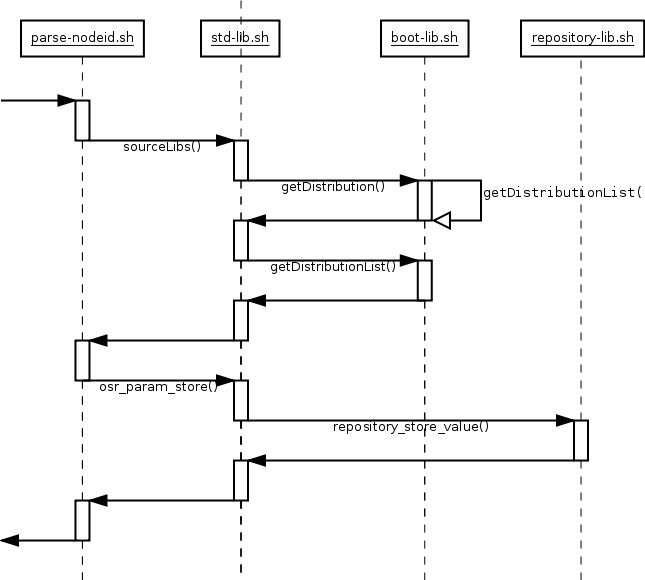
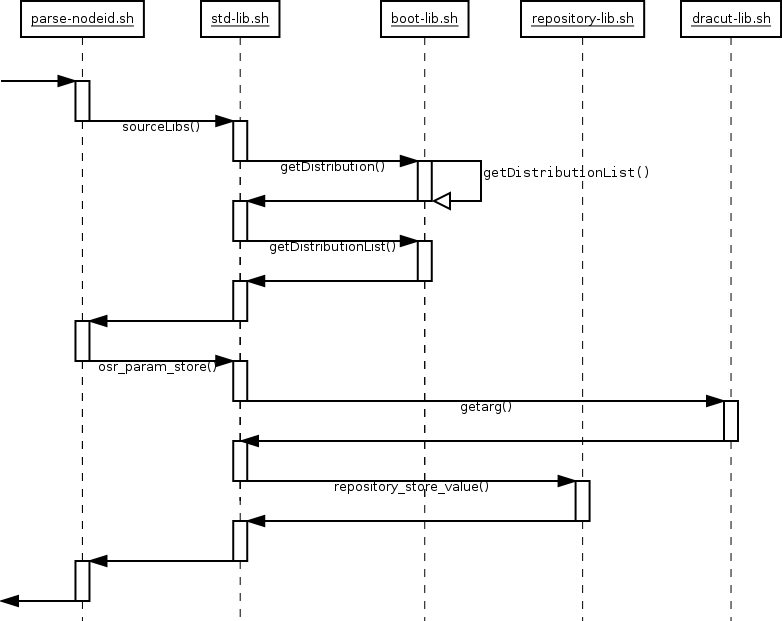
add Dia-File and png export from sequence_diagram_mount-cdsl.

Changed region(s): [[0.0, 0.0, 0.9922, 0.9931], [0.4651, 0.0, 1.0, 0.1241]]

diff --git a/doc/DE_de/develop_doc.tex b/doc/DE_de/develop_doc.tex
@@ -5,7 +5,7 @@
 \usepackage{amsfonts}
 \usepackage{amssymb}
 \usepackage{hyperref}
-
+\usepackage{graphicx}
 
 \author{Olaf Radicke}
 \title{Dokumentation der Funktionsweise der OSR-Dracut-Module}
@@ -25,6 +25,8 @@
 
 Als erstes wird vom Kernel nach dem Booten ein kleiner Binär-Code von Dracut ausgeführt, der dann seinerseits die in dash geschriebene Dracut-Module ausführt. Das erste Modul das von Darcut startet wird ist das Modul 99base. Das Erste was das Modul tut ist, dafür zu sorgen das dass initramfs geladen hat. Das Script was dafür verantwortlich ist, ist die \texttt{init}-Datei. Diese kann angepasst werden. Empfohlen wird aber stat dessen die Hooks zu verwenden. Hooks sind Scrips die vor oder nach definierten Ereignissen ausgeführt werden. Diese Hooks werden in den Modulen in den Dateien \texttt{install} definiert.
 
+\subsection{Verwendete Hooks}
+
 Die in den Modulen verwendeten Hooks sind:
 \begin{description}
  \item[cmdline] Ein sehr früher Zeitpunkt. Hier werden die Kerne-Parameter ausgewertet werden die dem Bootloader mitgegeben wurden (Sei es als GRUB-Konfiguration oder beim Booten). Hier werden z.B. die wichtigsten Environment-Variablen gesetzt. 
@@ -34,9 +36,21 @@ Die in den Modulen verwendeten Hooks sind:
 
 In einem Script \texttt{check} wird eine Funktion \texttt{check()} definiert. Das Scrip \texttt{check} sollte 0 (null) zurückgeben, wenn alle Bedingungen erfüllt sind. Wird ein anderer Wert zurückgegeben, wird das Modul nicht von Darcut geladen.
 
-Mit dem Schlüsselwort \texttt{inst\_simple} werden Dateien in das initramfs kopiert/installiert.
+\subsection{Weitere Schlüsselworte (Methoden) von Dracut}
 
-Mit dem Schlüsselwort \texttt{dracut\_install} werden Software-Pakete in die ramsf-Umgebung installiert bzw. zur Verfügung gestellt.
+\begin{description}
+ \item[inst\_simple] Mit dem Schlüsselwort \texttt{inst\_simple} werden Dateien in das initramfs kopiert/installiert.
+ \item[dracut\_install] Mit dem Schlüsselwort \texttt{dracut\_install} werden Software-Pakete in die ramsf-Umgebung installiert bzw. zur Verfügung gestellt.
+ \end{description}
+ 
+\subsection{Verwendete Darcut-Lib-Komandos}
+
+Die Dracut-lib (\texttt{/usr/share/dracut/modules.d/99base/dracut-lib.sh}) stellt verschiedene Methoden zur Verfühgung. Benutzt werden von OSR:
+
+\begin{description}
+ \item [getarg()] Gibt die benutzten Kernel-Parameter zurück.
+ \item [die()] Schreibt eine Meldung in \texttt{/dev/kmsg}, gibt eine Meldung auf der Standartausgabe aus und beendet das Script mit Rückgabelwert 1.
+\end{description}
 
 \section{Modul 95osr-chroot}
 
@@ -47,49 +61,6 @@ Mit dem Schlüsselwort \texttt{dracut\_install} werden Software-Pakete in die ra
 [TEXT]
 
 \section{Modul 96osr}
-
-\subsection{Definierte Hooks}
-
-
-\begin{description}
-\item[setup-osrenv.sh] cmdline  99
-\item[parse-nodeid.sh] cmdline  2
-\item[parse-cdsl.sh] cmdline 99
-\item[mount-cdsl.sh] pre-pivot 1
-\item[write-xfiles.sh] pre-pivot 90
-\item[emergencyenv.sh] emergency 1
-\end{description}
-
-\subsubsection{setup-osrenv.sh}
-\begin{description}
-\item[Hook:] cmdline
-\item[Priorität:] 99
-\end{description}
-Das Script lädt \texttt{dracut-lib.sh} und die \texttt{/osr/std-lib.sh}. Das Script versucht herrauszufinden um welche Distrebution es sich handelt. Und legt dann eine einfache Datenbank  mit Schlüssel-Werte-Paaren an. Die Schlüssel der gespeicherte Werte sind:
-
-\begin{itemize}
- \item logofile
- \item shellrcfile
- \item shellissue
- \item shellissuetmp
- \item shell
- \item sysctlfile
- \item xtabfile
- \item xrootfsfile
- \item xkillallprocsfile
-\end{itemize}
-
-
-\subsubsection{parse-nodeid.sh}
-\begin{description}
-\item[Hook:] cmdline
-\item[Priorität:] 2
-\end{description}
-
-Das Script überprüft noch ein mal die Art der Distrebution und speichert den Namen in eine einfache Schlüssel-Werte-Tabelle (mittels der Funktion \texttt{repository\_store\_value()} aus der Datei  \texttt{repository-lib.sh})
-Das Script überprüft ob den Kernel ind Node-ID als Parameter übergeben wurde.
-
-
 
 \subsection{In Initramfs installierte Dateien}
 
@@ -116,6 +87,89 @@ Das Script überprüft ob den Kernel ind Node-ID als Parameter übergeben wurde.
 \end{itemize}
 
 expr könnte mit awk abgedeckt werden.
+
+\subsection{Definierte Hooks}
+
+
+\begin{description}
+
+\item[setup-osrenv.sh] cmdline  99
+\item[parse-nodeid.sh] cmdline  2
+\item[parse-cdsl.sh] cmdline 99
+\item[mount-cdsl.sh] pre-pivot 1
+\item[write-xfiles.sh] pre-pivot 90
+\item[emergencyenv.sh] emergency 1
+\end{description}
+
+\subsubsection{setup-osrenv.sh}
+\begin{description}
+\item[Hook:] cmdline
+\item[Priorität:] 99
+\end{description}
+
+\begin{figure}[h!]
+ \centering
+ \includegraphics[scale=0.35]{./sequence_diagram_setup-osrenv_DE_de.png}
+ \caption[]{Sequence-Diagram des setup-osrenv.sh-Scrips}
+\end{figure}
+
+Das Script lädt \texttt{dracut-lib.sh} und die \texttt{/osr/std-lib.sh}. Das Script versucht herauszufinden um welche Distribution es sich handelt. Und legt dann eine einfache Datenbank  mit Schlüssel-Werte-Paaren an. Die Schlüssel der gespeicherte Werte sind:
+
+\begin{itemize}
+ \item logofile
+ \item shellrcfile
+ \item shellissue
+ \item shellissuetmp
+ \item shell
+ \item sysctlfile
+ \item xtabfile
+ \item xrootfsfile
+ \item xkillallprocsfile
+\end{itemize}
+
+
+\subsubsection{parse-nodeid.sh}
+\begin{description}
+\item[Hook:] cmdline
+\item[Priorität:] 2
+\end{description}
+
+\begin{figure}[h!]
+ \centering
+ \includegraphics[scale=0.50]{./sequence_diagram_parse-nodeid_DE_de.png}
+ \caption[]{Sequence-Diagram des parse-nodeid.sh-Scrips}
+\end{figure}
+
+Das Script überprüft noch ein mal die Art der Distribution und speichert den Namen in eine einfache Schlüssel-Werte-Tabelle (mittels der Funktion \texttt{repository\_store\_value()} aus der Datei  \texttt{repository-lib.sh})
+Das Script überprüft ob den Kernel die Node-ID als Parameter übergeben wurde.
+
+
+\subsubsection{parse-cdsl.sh}
+\begin{description}
+\item[Hook:] cmdline
+\item[Priorität:] 99
+\end{description}
+
+Das Scrip legt in eine einfache Datenbank mit Schlüssel-Werte-Paaren an. Die Schlüssel der gespeicherte Werte sind:
+
+\begin{itemize}
+ \item cdsltree
+ \item cdslsharedtree
+ \item cdsllink
+\end{itemize}
+
+\subsubsection{mount-cdsl.sh}
+\begin{description}
+\item[Hook:] pre-pivot
+\item[Priorität:] 1
+\end{description}
+
+\begin{figure}[h!]
+ \centering
+ \includegraphics[scale=0.50]{./sequence_diagram_mount-cdsl_DE_de.png}
+ \caption[]{Sequence-Diagram des mount-cdsl.sh-Script}
+\end{figure}
+
 
 \section{Modul 99osr-atix-legacy}
 
